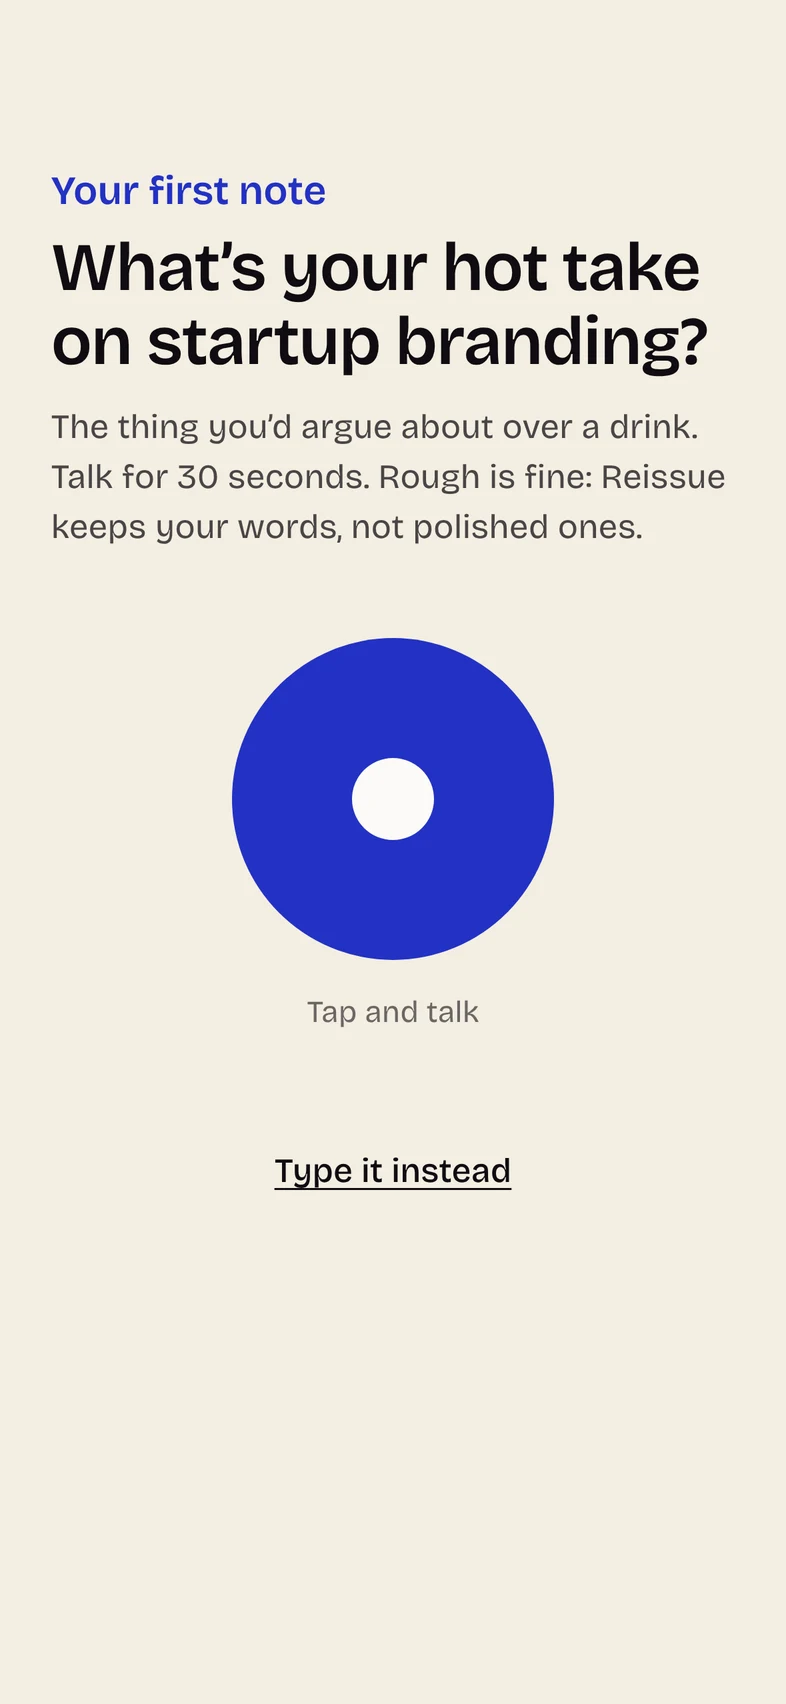
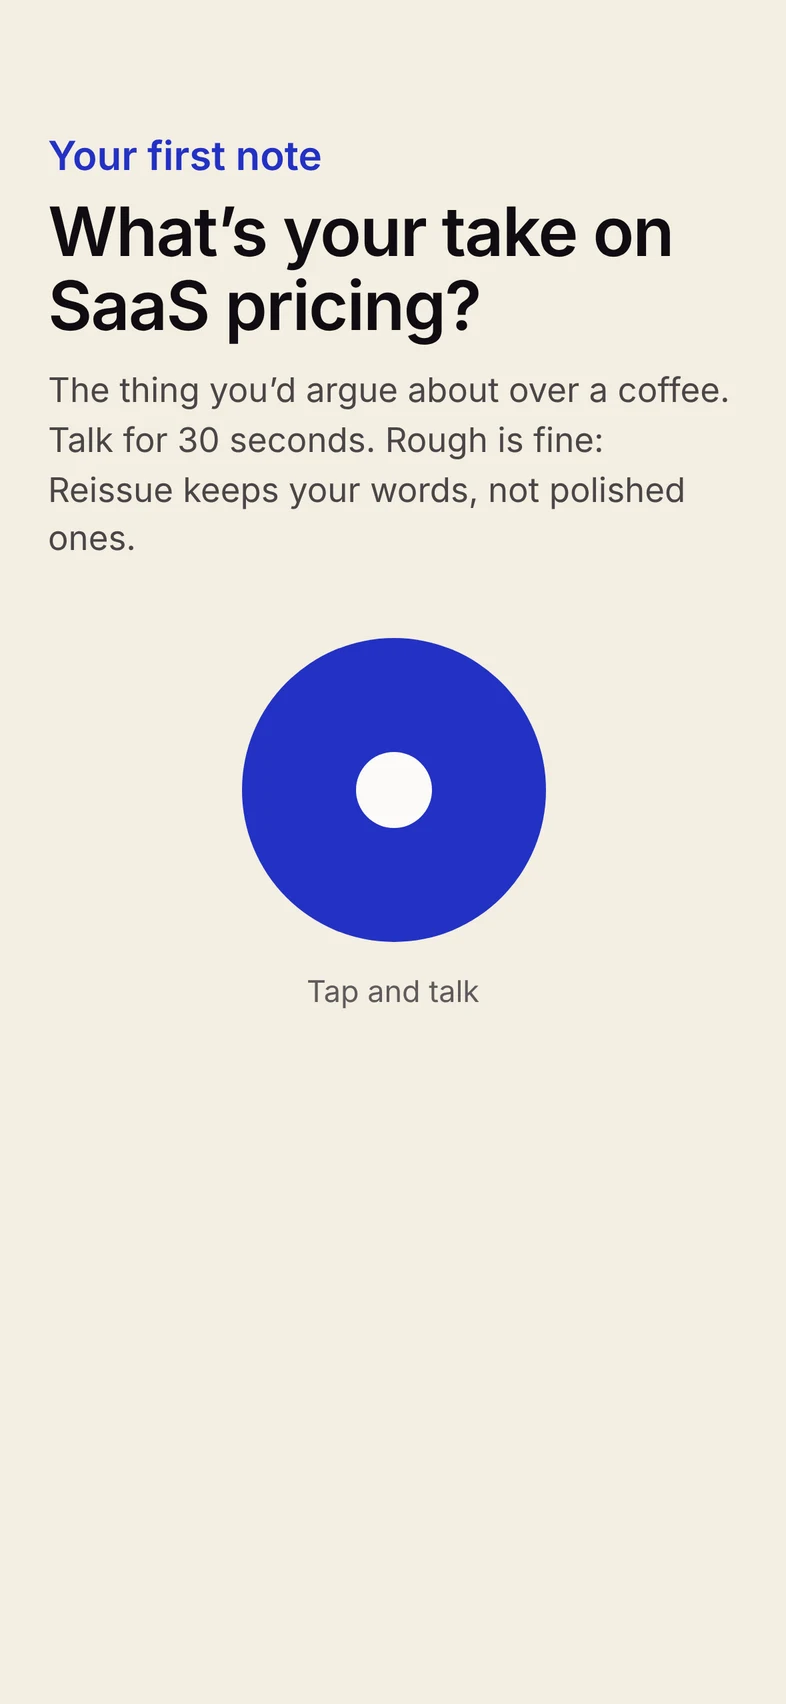
Hero speaks to the reader; sticky header with Join the beta; generic founder screens on white cards
- Headline: "A social team in your pocket." Pill: "You have the ideas. Reissue does the rest."
- "Your thinking in. The right content out."
- Sticky header; "Est. 2026" replaced by a Join the beta button
- How it works screens use a generic B2B SaaS founder, not Marina's notes; no "hot take" anywhere
- White step cards; step 2 drops "why now"; step 3 says no AI slop

Claude-Session: https://claude.ai/code/session_01JLiL2MwqLKFG1F1JrDSEyS

diff --git a/index.html b/index.html
@@ -272,11 +272,20 @@ body.nav-1 .nav .nav-join{display:none}
   .how .st-card::after{height:52px}
 }
 .how .st-illo{width:100%;height:auto;aspect-ratio:393/852;object-fit:cover;object-position:top center;display:block;border-radius:20px}
+/* ===== STICKY HEADER + BETA BUTTON (28 Oct 2026) ===== */
+html{scroll-padding-top:84px}
+body.nav-1 > .nav{display:grid;grid-template-columns:1fr auto 1fr;align-items:center;position:sticky;top:0;z-index:50;background:var(--cream);border-bottom:1px solid var(--ink)}
+body.nav-1 > .nav .nav-cta{grid-column:3;grid-row:1;justify-self:end;font-family:var(--work);text-transform:none;letter-spacing:0;font-size:15px;background:var(--ink);color:var(--cream);border-radius:999px;padding:10px 18px;text-decoration:none;white-space:nowrap}
+body.nav-1 > .nav .nav-cta:hover{background:var(--cobalt)}
+.hero{min-height:calc(100svh - 72px)}
+@media(max-width:820px){body.nav-1 > .nav{padding:12px 16px}body.nav-1 > .nav .nav-cta{font-size:14px;padding:9px 14px}html{scroll-padding-top:70px}}
+/* white step cards so the cream phone screens stand apart */
+.how .st{background:#fff}
+.how .st-card::after{background:linear-gradient(to bottom, rgba(255,255,255,0) 0%, #fff 100%)}
 </style></head><body class="nav-1">
 
 
-<header class="b-cream hero">
-  <nav class="nav">
+<nav class="nav">
     <div class="brand">&reg;</div>
     <div class="n">
       <a href="#how">How it works</a>
@@ -284,32 +293,33 @@ body.nav-1 .nav .nav-join{display:none}
       <a href="#faq">FAQ</a>
       <a href="#join" class="nav-join">Join</a>
     </div>
-    <div class="nav-est">Est. 2026</div>
+    <a href="#join" class="nav-cta">Join the beta</a>
   </nav>
-  <h1>Every founder's<br><span class="l2">social team.</span></h1>
-  <div class="pill-wrap"><p class="hero-explainer">You already have the ideas. Reissue does the rest.</p></div>
+<header class="b-cream hero">
+  <h1>A social team<br><span class="l2">in your pocket.</span></h1>
+  <div class="pill-wrap"><p class="hero-explainer">You have the ideas. Reissue does the rest.</p></div>
   <a href="#how" class="scroll-cue" aria-label="Scroll to how it works">
     <span class="scroll-arrow">&#8595;</span>
   </a>
 </header>
 
 <section class="b-sky block how" id="how">
-  <h2 class="sec">Your thinking in.<br>The right post out.</h2>
+  <h2 class="sec">Your thinking in.<br>The right content out.</h2>
   <div class="steps">
     <div class="st">
-      <div class="st-card" aria-hidden="true"><img class="st-illo" src="step-1.webp" srcset="step-1.webp 393w, step-1@2x.webp 786w, step-1@3x.webp 1179w" sizes="(max-width:820px) 250px, 234px" width="393" height="852" alt="Reissue asking for your hot take on startup branding, with a big button to tap and talk" loading="lazy" decoding="async"/></div>
+      <div class="st-card" aria-hidden="true"><img class="st-illo" src="step-1.webp" srcset="step-1.webp 393w, step-1@2x.webp 786w, step-1@3x.webp 1179w" sizes="(max-width:820px) 250px, 234px" width="393" height="852" alt="Reissue asking for your take on SaaS pricing, with a big button to tap and talk" loading="lazy" decoding="async"/></div>
       <h3>Capture ideas the moment<br>you have them.</h3>
-      <p>A voice note after a meeting, a thought on a walk, a photo of your notebook. Talk into your phone and Reissue keeps every idea, in your words. Setup takes two minutes: what you do, what to listen for, and your first hot take.</p>
+      <p>A voice note after a meeting, a thought on a walk, a photo of your notebook. Talk into your phone and Reissue keeps every idea, in your words. Setup takes two minutes: what you do, what to listen for, and your first voice note.</p>
     </div>
     <div class="st">
-      <div class="st-card" aria-hidden="true"><img class="st-illo" src="step-2.webp" srcset="step-2.webp 393w, step-2@2x.webp 786w, step-2@3x.webp 1179w" sizes="(max-width:820px) 250px, 234px" width="393" height="852" alt="A post opportunity: your idea about founders overcooking their brand lines up with this week's discussion" loading="lazy" decoding="async"/></div>
+      <div class="st-card" aria-hidden="true"><img class="st-illo" src="step-2.webp" srcset="step-2.webp 393w, step-2@2x.webp 786w, step-2@3x.webp 1179w" sizes="(max-width:820px) 250px, 234px" width="393" height="852" alt="A post opportunity: your idea about discounting first customers lines up with this week's discussion" loading="lazy" decoding="async"/></div>
       <h3>It knows when an<br>idea matters.</h3>
-      <p>Every morning, Reissue listens to what your industry is talking about online and checks it against everything you've said. When one of your ideas lines up, it flags it as a post opportunity and tells you why now.</p>
+      <p>Every morning, Reissue listens to what your industry is talking about online and checks it against everything you've said. When one of your ideas lines up, it flags it as a post opportunity and shows you the conversation it fits into.</p>
     </div>
     <div class="st">
-      <div class="st-card" aria-hidden="true"><img class="st-illo" src="step-3.webp" srcset="step-3.webp 393w, step-3@2x.webp 786w, step-3@3x.webp 1179w" sizes="(max-width:820px) 250px, 234px" width="393" height="852" alt="A LinkedIn post drafted from your own voice note, with Sounds like me and Approve and post" loading="lazy" decoding="async"/></div>
+      <div class="st-card" aria-hidden="true"><img class="st-illo" src="step-3.webp" srcset="step-3.webp 393w, step-3@2x.webp 786w, step-3@3x.webp 1179w" sizes="(max-width:820px) 250px, 234px" width="393" height="852" alt="A LinkedIn post drafted from a founder's own voice note, with Sounds like me and Approve and post" loading="lazy" decoding="async"/></div>
       <h3>Ready to post,<br>in your voice.</h3>
-      <p>Reissue drafts the post from your own words, shaped for the platform it's going on. You approve it from your phone. Nothing posts without you.</p>
+      <p>Reissue drafts the post from your own words, shaped for the platform it's going on. No AI slop: every line comes from something you actually said. You approve it from your phone, and nothing posts without you.</p>
     </div>
   </div>
 </section>
